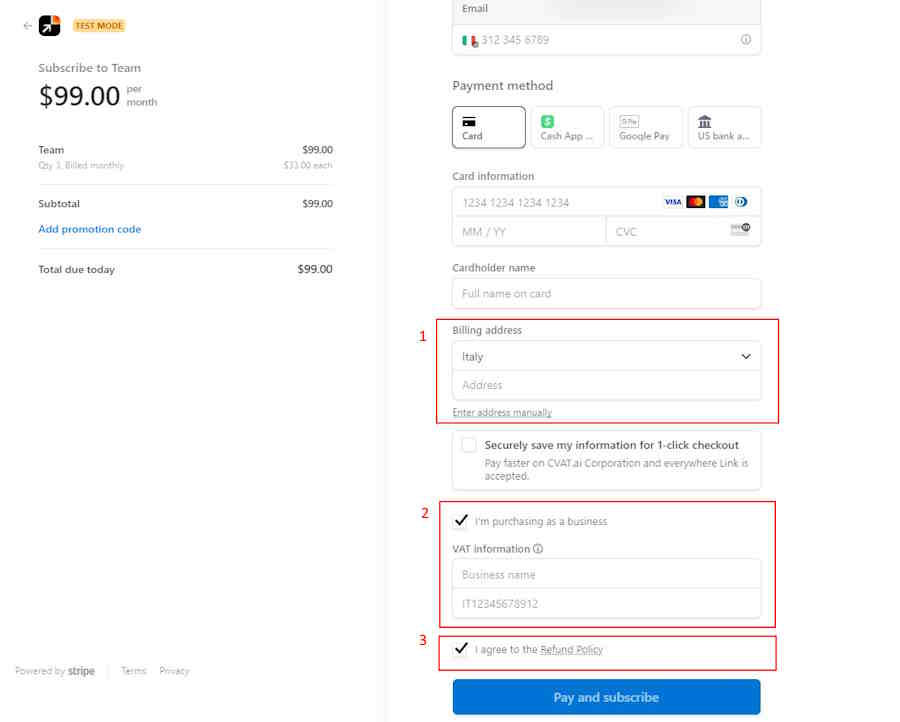
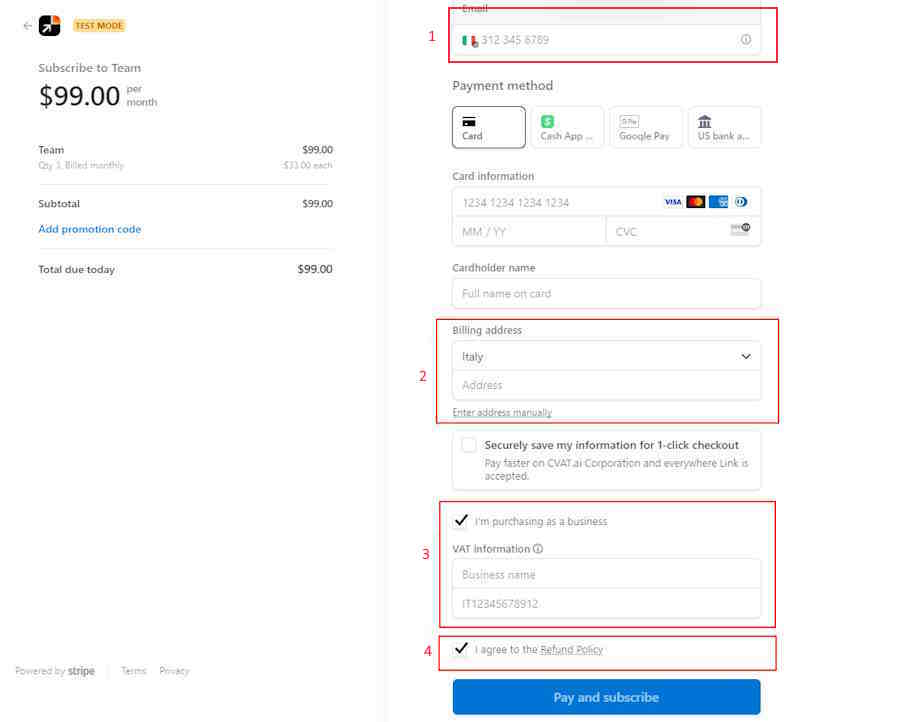
updates aligned with comments

diff --git a/site/content/en/docs/enterprise/subscription-managment.md b/site/content/en/docs/enterprise/subscription-managment.md
@@ -15,8 +15,8 @@ you'll learn how to take control of your subscriptions and manage them.
 See:
 
 - [Billing](#billing)
-  - [Solo plan](#solo-plan)
-  - [Team plan](#team-plan)
+  - [Solo plan for personal use](#solo-plan-for-personal-use)
+  - [Team plan for teams and organizations](#team-plan-for-teams-and-organizations)
   - [How to add VAT/tax and other information to the CVAT.ai invoice before the first payment?](#how-to-add-vattax-and-other-information-to-the-cvatai-invoice-before-the-first-payment)
   - [How to add/ change VAT/tax and other information to the CVAT.ai invoice after the first payment?](#how-to-add-change-vattax-and-other-information-to-the-cvatai-invoice-after-the-first-payment)
   - [Can a paid invoice be modified?](#can-a-paid-invoice-be-modified)
@@ -30,17 +30,17 @@ See:
   - [Change payment method on the Solo plan](#change-payment-method-on-the-solo-plan)
   - [Change the payment method on the Team plan](#change-the-payment-method-on-the-team-plan)
 - [Adding and removing team members](#adding-and-removing-team-members)
-  - [Solo plan](#solo-plan-1)
-  - [Team plan](#team-plan-1)
+  - [Solo plan](#solo-plan)
+  - [Team plan](#team-plan)
 - [Change plan](#change-plan)
 - [Can I subscribe to several plans?](#can-i-subscribe-to-several-plans)
 - [Cancel plan](#cancel-plan)
   - [What will happen to my data?](#what-will-happen-to-my-data)
+  - [Solo plan](#solo-plan-1)
+  - [Team plan](#team-plan-1)
+- [Plan renewal](#plan-renewal)
   - [Solo plan](#solo-plan-2)
   - [Team plan](#team-plan-2)
-- [Plan renewal](#plan-renewal)
-  - [Solo plan](#solo-plan-3)
-  - [Team plan](#team-plan-3)
 - [Subscription management video tutorial](#subscription-management-video-tutorial)
 
 ## Billing
@@ -54,7 +54,7 @@ and Team plans: monthly and annual.
 For more information,
 see: [Pricing Plans](https://www.cvat.ai/post/new-pricing-plans)
 
-### Solo plan
+### Solo plan for personal use
 
 The **Solo** plan has a fixed price and is
 designed **for personal use only**. It doesn't allow collaboration with team members
@@ -64,7 +64,7 @@ but removes all the other limits of the **Free** plan.
 > access for up to 3 members -- it is _for trial purposes_ only,
 > organization and members _will have all the limitations of the **Free** plan_.
 
-### Team plan
+### Team plan for teams and organizations
 
 The **Team** plan allows you to create
 an organization and add team members who can collaborate on projects.
@@ -97,12 +97,14 @@ Here’s how you can do it:
 
    ![Stripe Link](/images/add-vat.jpg)
 
+   - Phone number **(1)**.
    - **Billing Address**: Enter the billing address you want to appear on the invoice
-     in the address field **(1)**.
+     in the address field **(2)**.
    - **VAT Information** and **Business Name**: Select the checkbox **I am purchasing as a business** and enter
-     your VAT and business name information **(2)**.
+     your VAT and business name information **(3)**.
 
-6. Select checkbox **I agree to refund policy** **(3)**.
+
+6. Select checkbox **I agree to refund policy** **(4)**.
 
 7. Click **Pay & Subscribe**.
 
